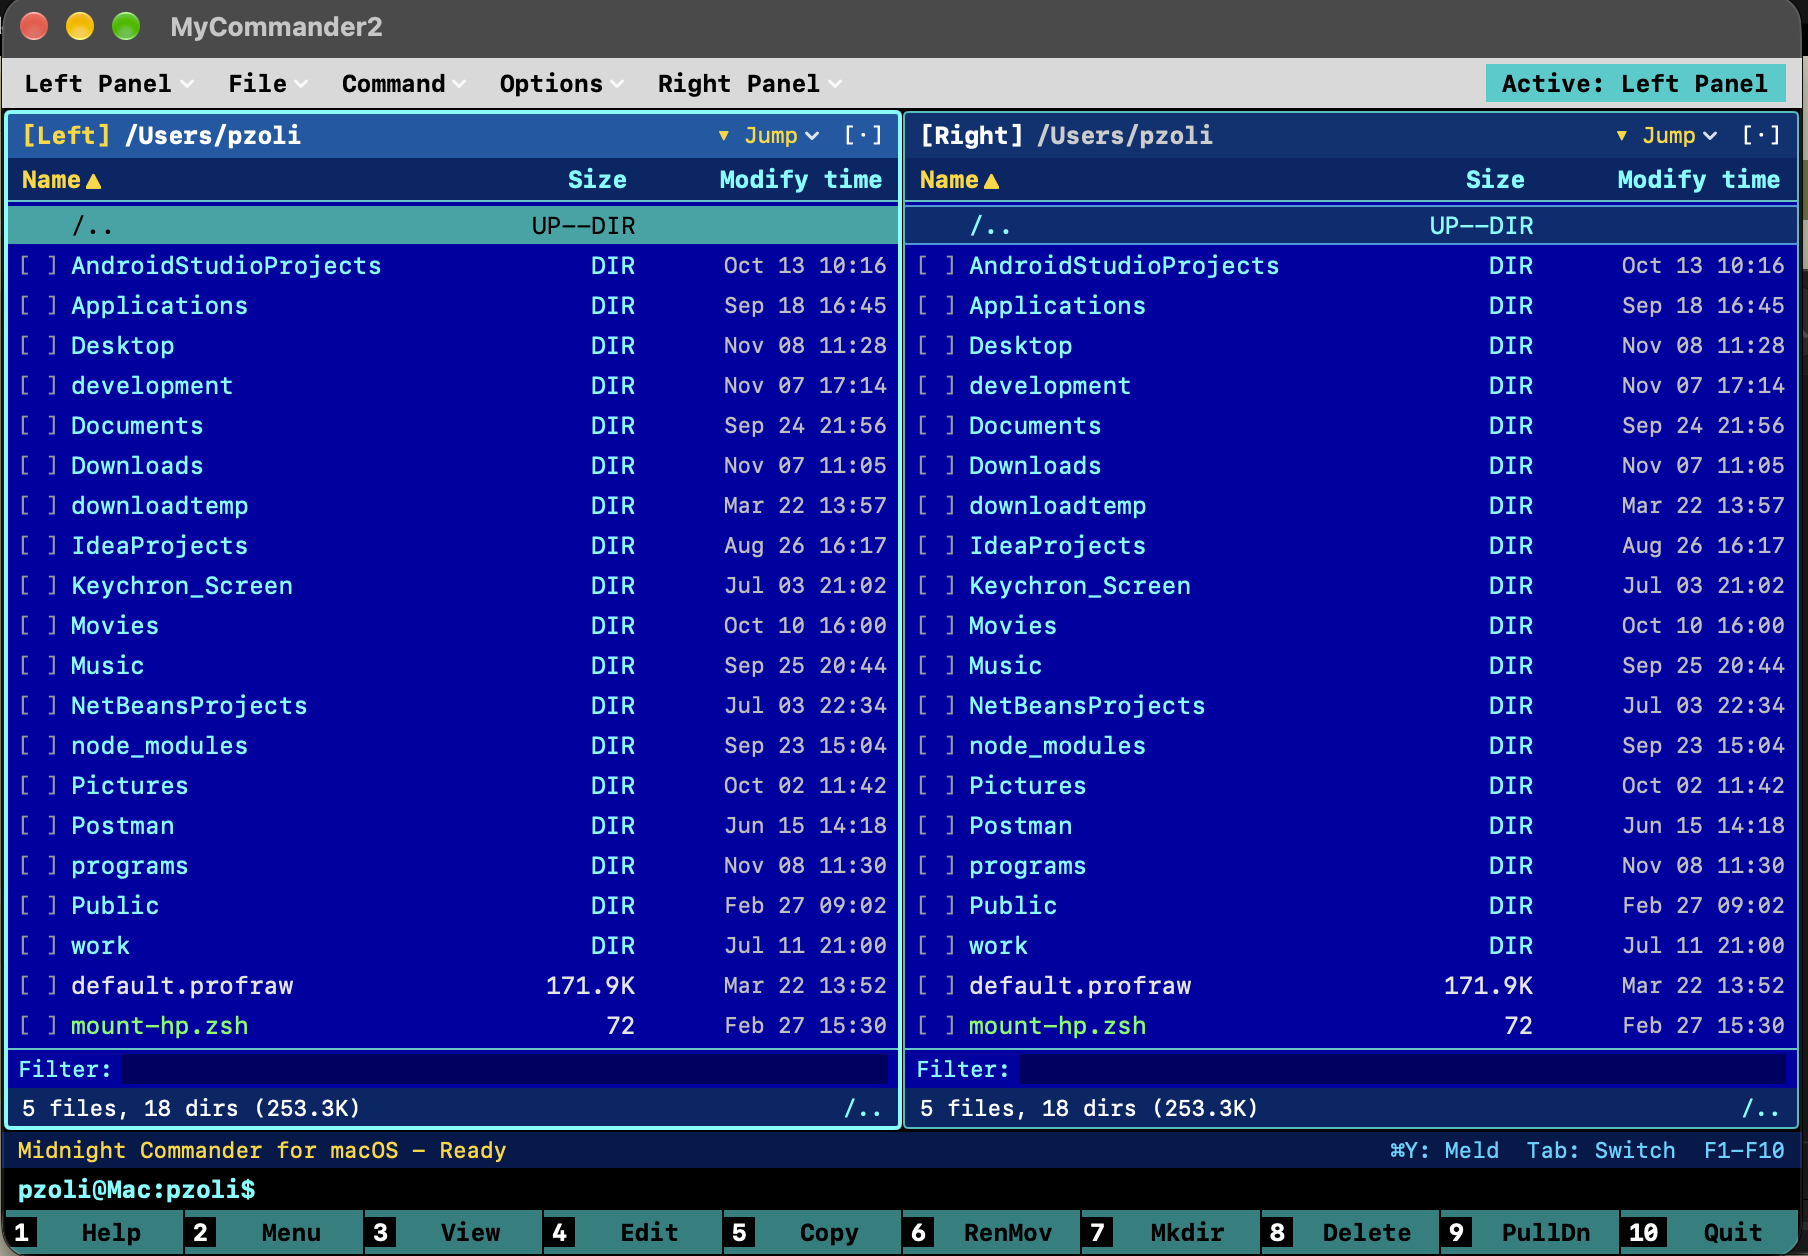
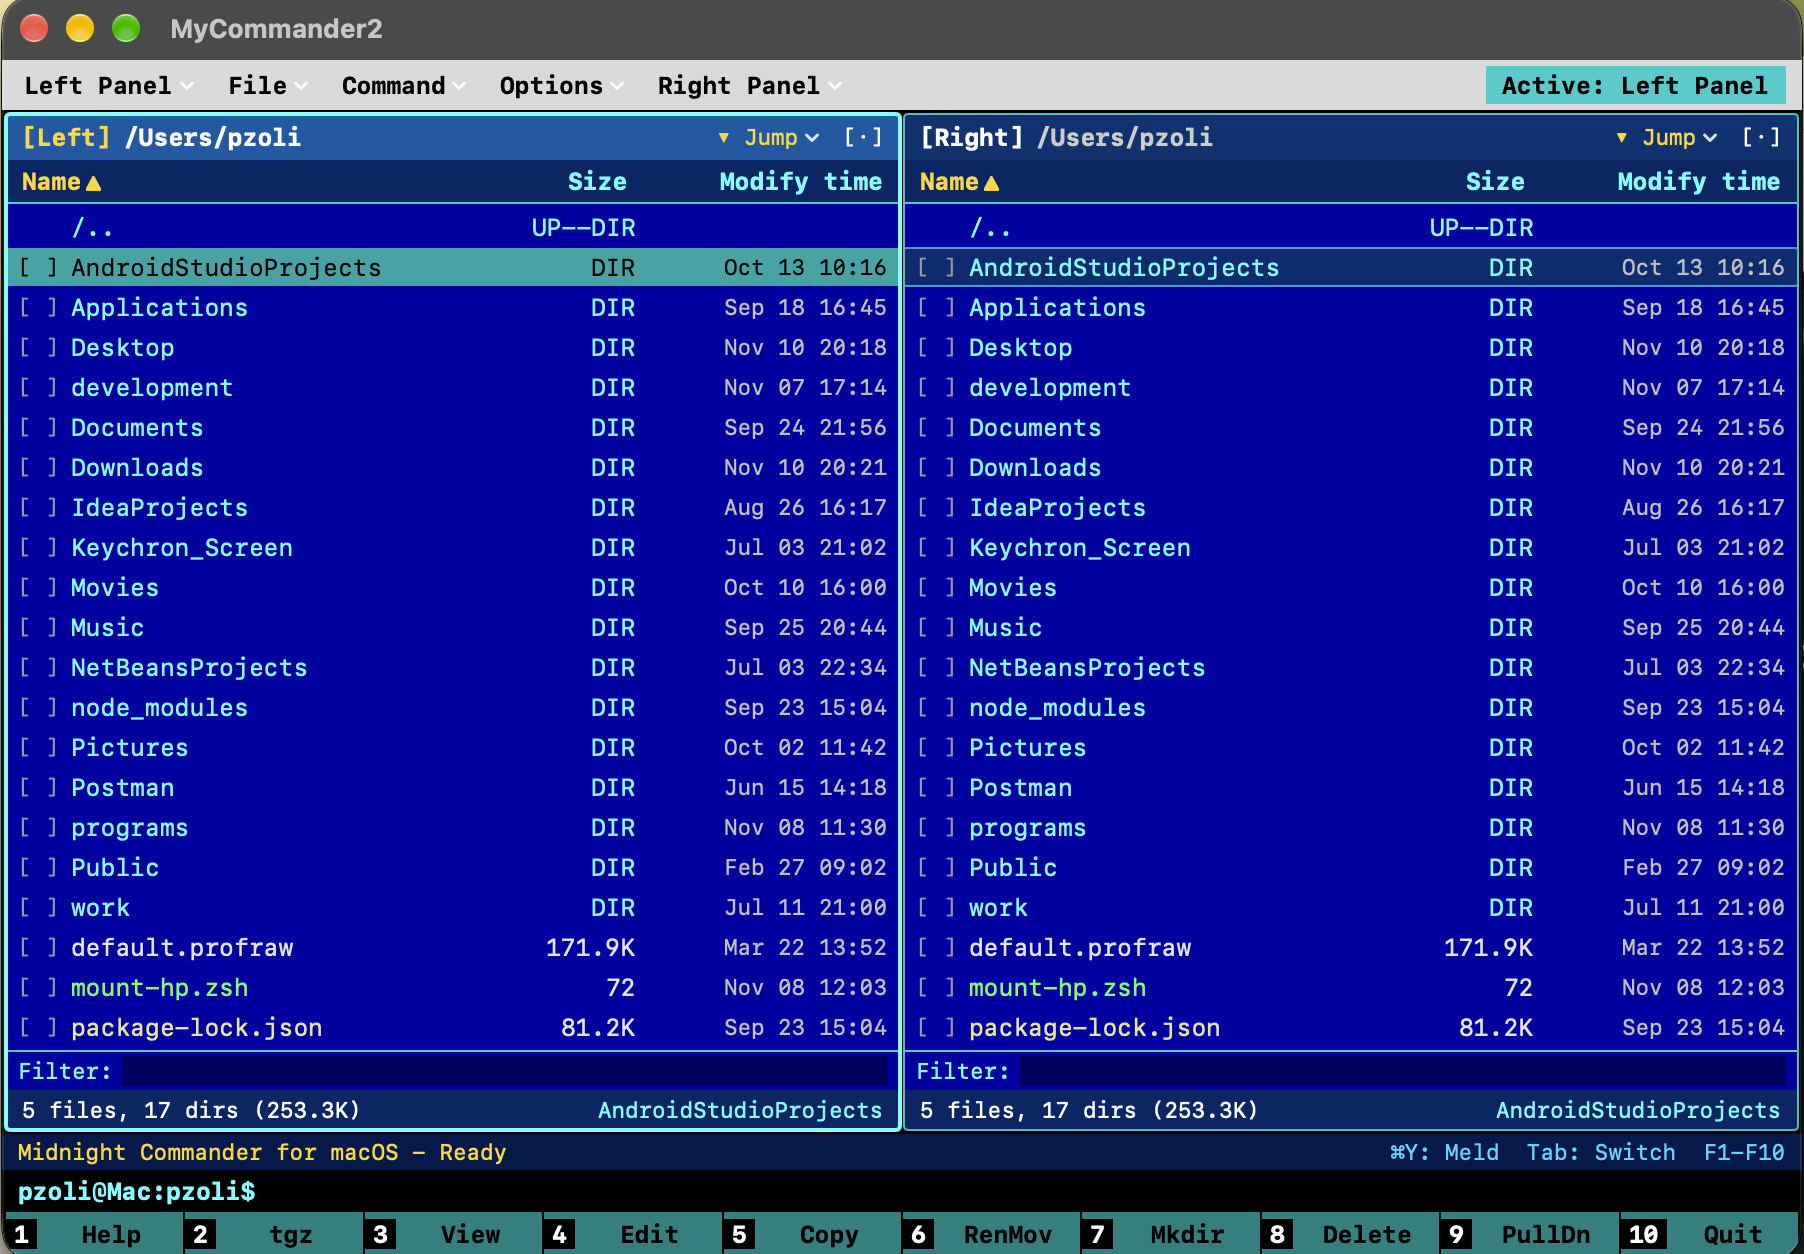
copy / move and rename file or dir

Changed region(s): [[0.0, 0.0, 1.0, 1.0]]

diff --git a/MyCommander2/FileService.swift b/MyCommander2/FileService.swift
@@ -138,19 +138,43 @@ class FileService {
     }
     
     /// Másolás
-    func copy(items: [URL], to targetFolder: URL) throws {
+    func copy(items: [URL], to target: URL) throws {
         for source in items {
-            let destination = targetFolder.appendingPathComponent(source.lastPathComponent)
+            let destination = try destinationURL(for: source, target: target, itemCount: items.count)
             try fileManager.copyItem(at: source, to: destination)
         }
     }
     
     /// Áthelyezés
-    func move(items: [URL], to targetFolder: URL) throws {
+    func move(items: [URL], to target: URL) throws {
         for source in items {
-            let destination = targetFolder.appendingPathComponent(source.lastPathComponent)
+            let destination = try destinationURL(for: source, target: target, itemCount: items.count)
             try fileManager.moveItem(at: source, to: destination)
         }
+    }
+    
+    /// Megadott célkönyvtár vagy egyetlen fájl teljes célútvonalának feloldása.
+    private func destinationURL(for source: URL, target: URL, itemCount: Int) throws -> URL {
+        var isDirectory: ObjCBool = false
+        if fileManager.fileExists(atPath: target.path, isDirectory: &isDirectory), isDirectory.boolValue {
+            return target.appendingPathComponent(source.lastPathComponent)
+        }
+        
+        guard itemCount == 1 else {
+            throw CocoaError(.fileNoSuchFile, userInfo: [
+                NSLocalizedDescriptionKey: "Több fájl másolásakor vagy mozgatásakor célkönyvtárat kell megadni."
+            ])
+        }
+        
+        let parentDirectory = target.deletingLastPathComponent()
+        guard fileManager.fileExists(atPath: parentDirectory.path, isDirectory: &isDirectory),
+              isDirectory.boolValue else {
+            throw CocoaError(.fileNoSuchFile, userInfo: [
+                NSLocalizedDescriptionKey: "A célkönyvtár nem létezik."
+            ])
+        }
+        
+        return target
     }
     
     /// Átnevezés

diff --git a/MyCommander2/MCDialogsView.swift b/MyCommander2/MCDialogsView.swift
@@ -342,12 +342,14 @@ struct CopyMoveDialog: View {
                         .foregroundColor(.white)
                         .lineLimit(2)
                     
-                    Text("to target directory:")
+                    Text(sources.count == 1
+                         ? "to target directory or new file path:"
+                         : "to target directory:")
                         .font(MCTheme.monoBold)
                         .foregroundColor(.white)
                         .padding(.top, 4)
                     
-                    // Célkönyvtár beviteli mező automatikus fókusszal
+                    // Egyetlen fájlnál a célfájlt teljes útvonallal is meg lehet adni.
                     TextField("", text: $targetPath)
                         .textFieldStyle(.plain)
                         .font(MCTheme.monoFont)
@@ -411,7 +413,12 @@ struct CopyMoveDialog: View {
     private func submit() {
         let trimmed = targetPath.trimmingCharacters(in: .whitespacesAndNewlines)
         if !trimmed.isEmpty {
-            let url = URL(fileURLWithPath: trimmed).standardizedFileURL
+            let url: URL
+            if sources.count == 1 && !trimmed.contains("/") {
+                url = initialDestination.appendingPathComponent(trimmed).standardizedFileURL
+            } else {
+                url = URL(fileURLWithPath: trimmed).standardizedFileURL
+            }
             onConfirm(url)
         }
     }
